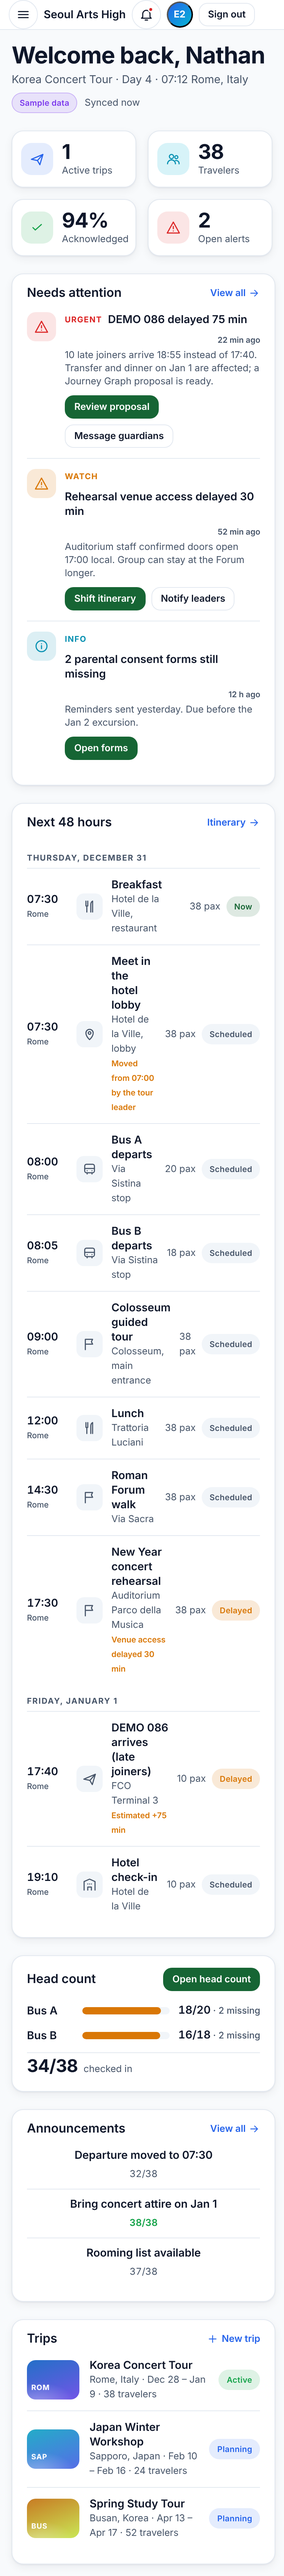
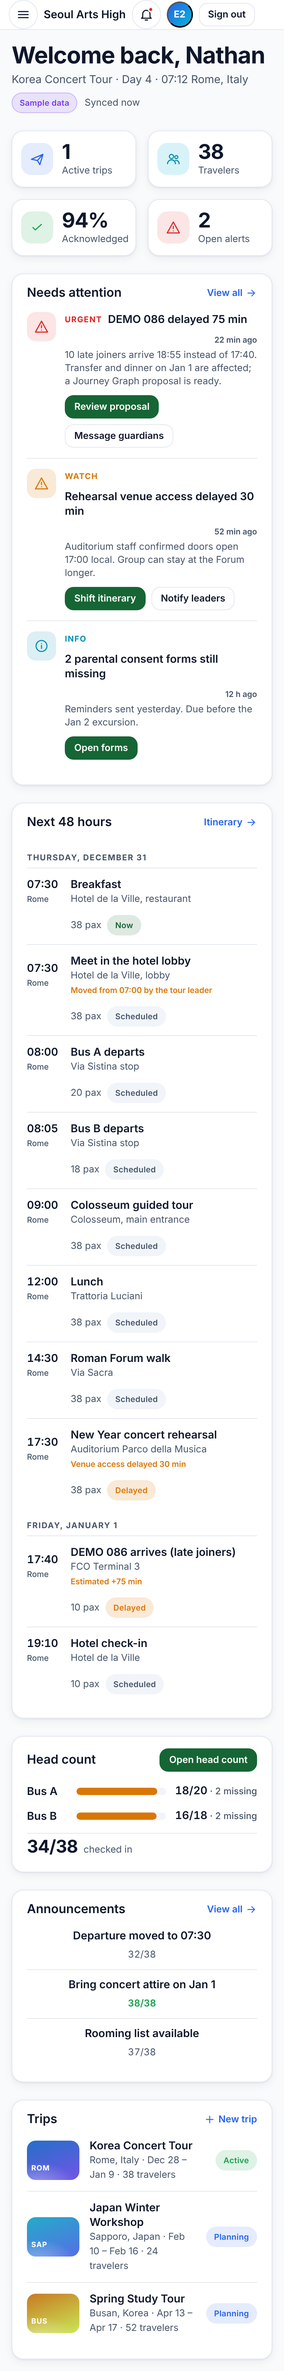
fix(web): let cards and rows shrink at phone width
CI's phone project overflowed the command center by 8px on the runner's
fonts. Cards, card heads, movement and head-count rows now have min-width 0
and wrap at <=768px, so content can never force horizontal scroll.

Claude-Session: https://claude.ai/code/session_01JTJP7DW5D8Y9VJ9CjsPXf9

diff --git a/apps/organizer-web/src/app/styles/base.css b/apps/organizer-web/src/app/styles/base.css
@@ -1195,6 +1195,36 @@ p {
     grid-template-columns: 1fr;
   }
 
+  /* Let every card and row shrink below its content's natural width (runner fonts differ). */
+  .stack > *,
+  .grid > *,
+  .card,
+  .card__body,
+  .card__head > * {
+    min-width: 0;
+  }
+
+  .card__head {
+    flex-wrap: wrap;
+    gap: 8px;
+  }
+
+  .movement {
+    grid-template-columns: 48px 1fr;
+  }
+
+  .movement__icon {
+    display: none;
+  }
+
+  .movement__right {
+    grid-column: 2;
+  }
+
+  .headcount__row {
+    grid-template-columns: 56px minmax(0, 1fr) auto;
+  }
+
   .missing,
   .flagrow {
     grid-template-columns: auto 1fr;
@@ -2068,6 +2098,36 @@ fieldset.filters {
 
   .setup__two {
     grid-template-columns: 1fr;
+  }
+
+  /* Let every card and row shrink below its content's natural width (runner fonts differ). */
+  .stack > *,
+  .grid > *,
+  .card,
+  .card__body,
+  .card__head > * {
+    min-width: 0;
+  }
+
+  .card__head {
+    flex-wrap: wrap;
+    gap: 8px;
+  }
+
+  .movement {
+    grid-template-columns: 48px 1fr;
+  }
+
+  .movement__icon {
+    display: none;
+  }
+
+  .movement__right {
+    grid-column: 2;
+  }
+
+  .headcount__row {
+    grid-template-columns: 56px minmax(0, 1fr) auto;
   }
 
   .missing,
